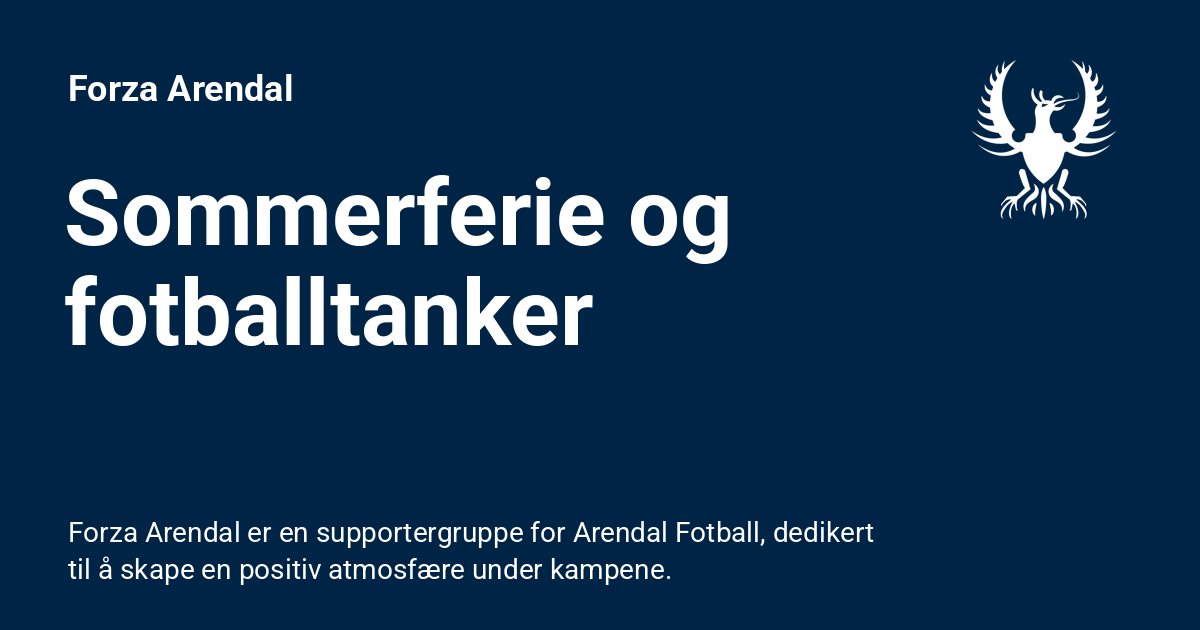
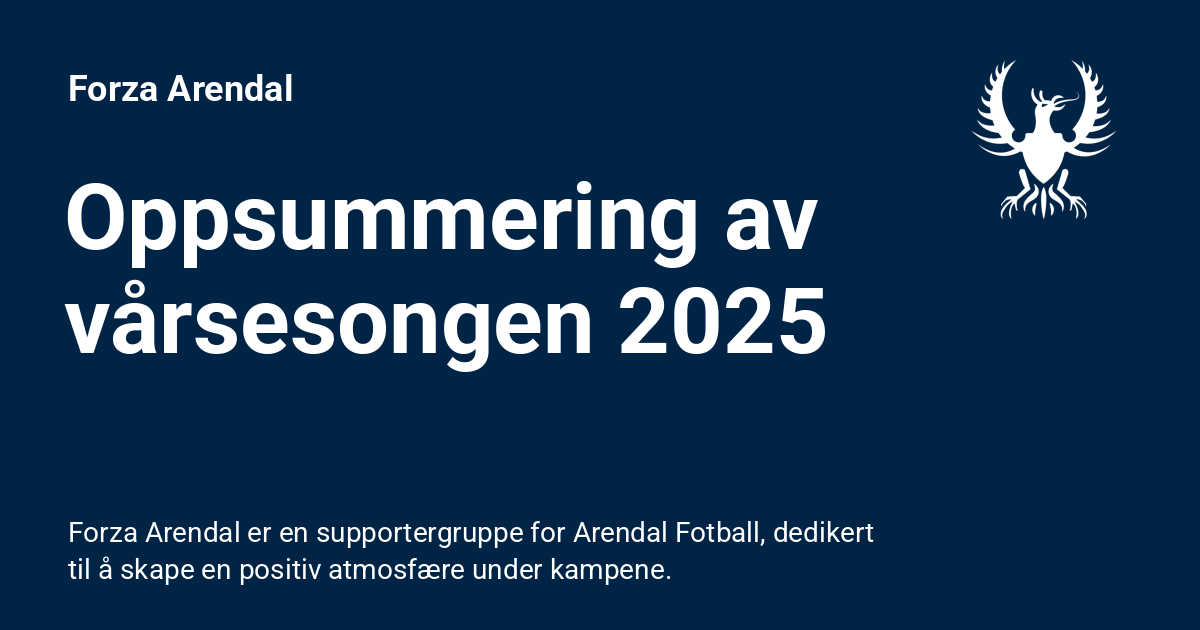
Deployed 1e60135 with MkDocs version: 1.6.1

Changed region(s): [[0.0308, 0.2714, 0.7092, 0.6032]]

diff --git a/blog/archive/2025/index.html b/blog/archive/2025/index.html
@@ -320,16 +320,16 @@
 </div>
 </header>
 <div class="md-post__content md-typeset">
-<h2 id="oppsummering-av-varsesongen-2025"><a class="toclink" href="../../2025/07/25/sommerferie-og-fotballtanker/">Oppsummering av vårsesongen 2025</a></h2>
+<h2 id="oppsummering-av-varsesongen-2025"><a class="toclink" href="../../2025/07/25/oppsummering-av-v%C3%A5rsesongen-2025/">Oppsummering av vårsesongen 2025</a></h2>
 <p>Det har vært over 30 grader i flere dager, det er umulig å få tak i makrell på butikken, jordbær har blitt selve symbolet på velstand, og det er flere østlendinger enn Arendalitter i byen. Endelig er det sommer.</p>
 <p>Vanligvis pleier sommerpausen å være forferdelig lang, men i år har våre "venner" i NFF gitt oss Eliteseriefotball i fellesferien, så da har i hvert fall vi norsk-fotballfanatikere noe å underholde oss med når huden har blitt urovekkende rød og det er på tide å trekke inn fra stranda.</p>
-<h3 id="fr-sommeren"><a class="toclink" href="../../2025/07/25/sommerferie-og-fotballtanker/#fr-sommeren">Før sommeren</a></h3>
+<h3 id="fr-sommeren"><a class="toclink" href="../../2025/07/25/oppsummering-av-v%C3%A5rsesongen-2025/#fr-sommeren">Før sommeren</a></h3>
 <p>For å begynne i en litt kronglete rekkefølge: Jeg var både utrolig klar for ferie og ganske negativ etter uka hvor vi tapte borte mot Pors og kapteinen vår signerte for Jerv i løpet av et par dager.</p>
 <p>Det var et par ganger i løpet av dagene før siste kamp før sommeren at jeg vurderte om jeg faktisk skulle gidde å dra på kamp for første gang på rundt 14 år. Etter å ha plantet hodet godt inn i aircondition og skylt nedpå et par lykkebrus, konkluderte jeg med at selvfølgelig skulle jeg på kamp.</p>
-<h3 id="sandviken-kampen-fra-helvete-til-himmel"><a class="toclink" href="../../2025/07/25/sommerferie-og-fotballtanker/#sandviken-kampen-fra-helvete-til-himmel">Sandviken-kampen - fra helvete til himmel</a></h3>
+<h3 id="sandviken-kampen-fra-helvete-til-himmel"><a class="toclink" href="../../2025/07/25/oppsummering-av-v%C3%A5rsesongen-2025/#sandviken-kampen-fra-helvete-til-himmel">Sandviken-kampen - fra helvete til himmel</a></h3>
 <p>Det er kort vei fra himmel til helvete, eller motsatt i dette tilfellet. Første omgang mot Sandviken viser hva som bor i laget. En revansjesugen gjeng tok umiddelbart tak og traff ekstremt godt med det høye presset.</p>
 <p>Allerede noen minutter inn i kampen satt man med følelsen av at det bare var et spørsmål om tid før Arendal skulle score, og det gjorde vi. <strong>4–0 til pause</strong> og <strong>6–1 som sluttresultat</strong> gjorde at man kunne ta sommerferie med en grei følelse etter det som, i mine øyne, har vært en OK-minus vårsesong.</p>
-<h3 id="sesonganalyse"><a class="toclink" href="../../2025/07/25/sommerferie-og-fotballtanker/#sesonganalyse">Sesonganalyse</a></h3>
+<h3 id="sesonganalyse"><a class="toclink" href="../../2025/07/25/oppsummering-av-v%C3%A5rsesongen-2025/#sesonganalyse">Sesonganalyse</a></h3>
 <p>Som jeg har vært inne på i flere innlegg, har Arendal vært altfor dårlige til å avgjøre og vinne kamper. Selv om man bare har <strong>to tap</strong>, har man på motsatt side kun vunnet <strong>fire kamper</strong>. Samtidig mener jeg at man legger seg for lavt etter å ha tatt ledelsen, og gir motstanderen altfor mye initiativ.</p>
 <p>Med det sagt, har Arendal vært veldig bra i banespillet fra 16 meter til 16 meter. De slipper sjeldent inn mer enn ett mål, men problemet er at de ofte bare scorer ett mål selv. Det er kun enkeltkamper som pynter voldsomt på statistikken, som mot:</p>
 <ul>
@@ -338,17 +338,17 @@
 <li>Vard</li>
 </ul>
 <p>Her står vi med <strong>16 mål totalt</strong> på disse tre kampene.</p>
-<h3 id="spillertroppen-og-ledelse"><a class="toclink" href="../../2025/07/25/sommerferie-og-fotballtanker/#spillertroppen-og-ledelse">Spillertroppen og ledelse</a></h3>
+<h3 id="spillertroppen-og-ledelse"><a class="toclink" href="../../2025/07/25/oppsummering-av-v%C3%A5rsesongen-2025/#spillertroppen-og-ledelse">Spillertroppen og ledelse</a></h3>
 <p>Spiller for spiller har Arendal et lag med fantastisk stort potensial. Jeg tror majoriteten av spillerne kunne løftet ethvert 2. divisjonslag og gått rett inn i flere OBOS-lag. Det er derfor veldig synd at vi spiller så mange kamper hvor spillerne ikke får ut potensialet sitt.</p>
 <p>Til syvende og sist er det spillerne selv som må være påskrudde til kamp, men i mine øyne må nok også Vegard Hansen ta på seg en del av ansvaret for at prestasjonene har vært under pari store deler av sesongen. Han er både lagleder og sportssjef, og når laget langt på vei er hengt av i opprykkskampen før vi er halvspilt, er det hans ansvar.</p>
 <p>Da Vegard holdt sin første appell til oss supportere, var han krystallklar på at det ville bli nedturer. Halvannet år etter ansettelsen gleder jeg meg enormt til oppturen!</p>
-<h3 id="supporterne-og-forza"><a class="toclink" href="../../2025/07/25/sommerferie-og-fotballtanker/#supporterne-og-forza">Supporterne og Forza</a></h3>
+<h3 id="supporterne-og-forza"><a class="toclink" href="../../2025/07/25/oppsummering-av-v%C3%A5rsesongen-2025/#supporterne-og-forza">Supporterne og Forza</a></h3>
 <p>På tribunen er det gledelig at vi stadig ser nye ansikter. Arendal Fotball kåret oss til <strong>banens beste i Porsgrunn</strong>, og det var utrolig hyggelig å se at det var en solid gjeng som møtte opp til Sandviken-kampen, selv om det kun var tre poeng til nedrykksplass.</p>
 <p>Jeg synes Forza har levert bra så langt i år, til tross for en del dønn kjedelige kamper. Det har blitt organisert buss til alle turene vi pekte oss ut før sesongen, og det har ikke vært nevneverdige problemer med å fylle dem opp.</p>
-<h4 id="varens-hydepunkter-og-lavpunkter"><a class="toclink" href="../../2025/07/25/sommerferie-og-fotballtanker/#varens-hydepunkter-og-lavpunkter">Vårens høydepunkter og lavpunkter</a></h4>
+<h4 id="varens-hydepunkter-og-lavpunkter"><a class="toclink" href="../../2025/07/25/oppsummering-av-v%C3%A5rsesongen-2025/#varens-hydepunkter-og-lavpunkter">Vårens høydepunkter og lavpunkter</a></h4>
 <p><strong>Høydepunkt:</strong> Naturligvis 16. mai-kampen mot Jerv, men Fløy borte var også utrolig gøy – kanskje mest fordi det var deilig å komme i gang med sesongen.</p>
 <p><strong>Lavpunkt:</strong> Man kan egentlig velge og vrake, men både tapet mot Pors og Lysekloster gjorde utrolig vondt.</p>
-<h3 id="fremtiden"><a class="toclink" href="../../2025/07/25/sommerferie-og-fotballtanker/#fremtiden">Fremtiden</a></h3>
+<h3 id="fremtiden"><a class="toclink" href="../../2025/07/25/oppsummering-av-v%C3%A5rsesongen-2025/#fremtiden">Fremtiden</a></h3>
 <p>Jeg er veldig spent på høstsesongen. Etter alle soletegn vil det bli drøssevis av ubetydelige kamper, hvor det eneste man trenger å fokusere på er neste sesong. Men jeg er notorisk optimist, og troen kan ingen ta fra meg.</p>
 <p><strong>Vi satser på topp 2!</strong></p>
 </div>

diff --git a/blog/index.html b/blog/index.html
@@ -321,16 +321,16 @@
 </div>
 </header>
 <div class="md-post__content md-typeset">
-<h2 id="oppsummering-av-varsesongen-2025"><a class="toclink" href="2025/07/25/sommerferie-og-fotballtanker/">Oppsummering av vårsesongen 2025</a></h2>
+<h2 id="oppsummering-av-varsesongen-2025"><a class="toclink" href="2025/07/25/oppsummering-av-v%C3%A5rsesongen-2025/">Oppsummering av vårsesongen 2025</a></h2>
 <p>Det har vært over 30 grader i flere dager, det er umulig å få tak i makrell på butikken, jordbær har blitt selve symbolet på velstand, og det er flere østlendinger enn Arendalitter i byen. Endelig er det sommer.</p>
 <p>Vanligvis pleier sommerpausen å være forferdelig lang, men i år har våre "venner" i NFF gitt oss Eliteseriefotball i fellesferien, så da har i hvert fall vi norsk-fotballfanatikere noe å underholde oss med når huden har blitt urovekkende rød og det er på tide å trekke inn fra stranda.</p>
-<h3 id="fr-sommeren"><a class="toclink" href="2025/07/25/sommerferie-og-fotballtanker/#fr-sommeren">Før sommeren</a></h3>
+<h3 id="fr-sommeren"><a class="toclink" href="2025/07/25/oppsummering-av-v%C3%A5rsesongen-2025/#fr-sommeren">Før sommeren</a></h3>
 <p>For å begynne i en litt kronglete rekkefølge: Jeg var både utrolig klar for ferie og ganske negativ etter uka hvor vi tapte borte mot Pors og kapteinen vår signerte for Jerv i løpet av et par dager.</p>
 <p>Det var et par ganger i løpet av dagene før siste kamp før sommeren at jeg vurderte om jeg faktisk skulle gidde å dra på kamp for første gang på rundt 14 år. Etter å ha plantet hodet godt inn i aircondition og skylt nedpå et par lykkebrus, konkluderte jeg med at selvfølgelig skulle jeg på kamp.</p>
-<h3 id="sandviken-kampen-fra-helvete-til-himmel"><a class="toclink" href="2025/07/25/sommerferie-og-fotballtanker/#sandviken-kampen-fra-helvete-til-himmel">Sandviken-kampen - fra helvete til himmel</a></h3>
+<h3 id="sandviken-kampen-fra-helvete-til-himmel"><a class="toclink" href="2025/07/25/oppsummering-av-v%C3%A5rsesongen-2025/#sandviken-kampen-fra-helvete-til-himmel">Sandviken-kampen - fra helvete til himmel</a></h3>
 <p>Det er kort vei fra himmel til helvete, eller motsatt i dette tilfellet. Første omgang mot Sandviken viser hva som bor i laget. En revansjesugen gjeng tok umiddelbart tak og traff ekstremt godt med det høye presset.</p>
 <p>Allerede noen minutter inn i kampen satt man med følelsen av at det bare var et spørsmål om tid før Arendal skulle score, og det gjorde vi. <strong>4–0 til pause</strong> og <strong>6–1 som sluttresultat</strong> gjorde at man kunne ta sommerferie med en grei følelse etter det som, i mine øyne, har vært en OK-minus vårsesong.</p>
-<h3 id="sesonganalyse"><a class="toclink" href="2025/07/25/sommerferie-og-fotballtanker/#sesonganalyse">Sesonganalyse</a></h3>
+<h3 id="sesonganalyse"><a class="toclink" href="2025/07/25/oppsummering-av-v%C3%A5rsesongen-2025/#sesonganalyse">Sesonganalyse</a></h3>
 <p>Som jeg har vært inne på i flere innlegg, har Arendal vært altfor dårlige til å avgjøre og vinne kamper. Selv om man bare har <strong>to tap</strong>, har man på motsatt side kun vunnet <strong>fire kamper</strong>. Samtidig mener jeg at man legger seg for lavt etter å ha tatt ledelsen, og gir motstanderen altfor mye initiativ.</p>
 <p>Med det sagt, har Arendal vært veldig bra i banespillet fra 16 meter til 16 meter. De slipper sjeldent inn mer enn ett mål, men problemet er at de ofte bare scorer ett mål selv. Det er kun enkeltkamper som pynter voldsomt på statistikken, som mot:</p>
 <ul>
@@ -339,17 +339,17 @@
 <li>Vard</li>
 </ul>
 <p>Her står vi med <strong>16 mål totalt</strong> på disse tre kampene.</p>
-<h3 id="spillertroppen-og-ledelse"><a class="toclink" href="2025/07/25/sommerferie-og-fotballtanker/#spillertroppen-og-ledelse">Spillertroppen og ledelse</a></h3>
+<h3 id="spillertroppen-og-ledelse"><a class="toclink" href="2025/07/25/oppsummering-av-v%C3%A5rsesongen-2025/#spillertroppen-og-ledelse">Spillertroppen og ledelse</a></h3>
 <p>Spiller for spiller har Arendal et lag med fantastisk stort potensial. Jeg tror majoriteten av spillerne kunne løftet ethvert 2. divisjonslag og gått rett inn i flere OBOS-lag. Det er derfor veldig synd at vi spiller så mange kamper hvor spillerne ikke får ut potensialet sitt.</p>
 <p>Til syvende og sist er det spillerne selv som må være påskrudde til kamp, men i mine øyne må nok også Vegard Hansen ta på seg en del av ansvaret for at prestasjonene har vært under pari store deler av sesongen. Han er både lagleder og sportssjef, og når laget langt på vei er hengt av i opprykkskampen før vi er halvspilt, er det hans ansvar.</p>
 <p>Da Vegard holdt sin første appell til oss supportere, var han krystallklar på at det ville bli nedturer. Halvannet år etter ansettelsen gleder jeg meg enormt til oppturen!</p>
-<h3 id="supporterne-og-forza"><a class="toclink" href="2025/07/25/sommerferie-og-fotballtanker/#supporterne-og-forza">Supporterne og Forza</a></h3>
+<h3 id="supporterne-og-forza"><a class="toclink" href="2025/07/25/oppsummering-av-v%C3%A5rsesongen-2025/#supporterne-og-forza">Supporterne og Forza</a></h3>
 <p>På tribunen er det gledelig at vi stadig ser nye ansikter. Arendal Fotball kåret oss til <strong>banens beste i Porsgrunn</strong>, og det var utrolig hyggelig å se at det var en solid gjeng som møtte opp til Sandviken-kampen, selv om det kun var tre poeng til nedrykksplass.</p>
 <p>Jeg synes Forza har levert bra så langt i år, til tross for en del dønn kjedelige kamper. Det har blitt organisert buss til alle turene vi pekte oss ut før sesongen, og det har ikke vært nevneverdige problemer med å fylle dem opp.</p>
-<h4 id="varens-hydepunkter-og-lavpunkter"><a class="toclink" href="2025/07/25/sommerferie-og-fotballtanker/#varens-hydepunkter-og-lavpunkter">Vårens høydepunkter og lavpunkter</a></h4>
+<h4 id="varens-hydepunkter-og-lavpunkter"><a class="toclink" href="2025/07/25/oppsummering-av-v%C3%A5rsesongen-2025/#varens-hydepunkter-og-lavpunkter">Vårens høydepunkter og lavpunkter</a></h4>
 <p><strong>Høydepunkt:</strong> Naturligvis 16. mai-kampen mot Jerv, men Fløy borte var også utrolig gøy – kanskje mest fordi det var deilig å komme i gang med sesongen.</p>
 <p><strong>Lavpunkt:</strong> Man kan egentlig velge og vrake, men både tapet mot Pors og Lysekloster gjorde utrolig vondt.</p>
-<h3 id="fremtiden"><a class="toclink" href="2025/07/25/sommerferie-og-fotballtanker/#fremtiden">Fremtiden</a></h3>
+<h3 id="fremtiden"><a class="toclink" href="2025/07/25/oppsummering-av-v%C3%A5rsesongen-2025/#fremtiden">Fremtiden</a></h3>
 <p>Jeg er veldig spent på høstsesongen. Etter alle soletegn vil det bli drøssevis av ubetydelige kamper, hvor det eneste man trenger å fokusere på er neste sesong. Men jeg er notorisk optimist, og troen kan ingen ta fra meg.</p>
 <p><strong>Vi satser på topp 2!</strong></p>
 </div>

diff --git a/blog/2025/07/25/oppsummering-av-vårsesongen-2025/index.html b/blog/2025/07/25/oppsummering-av-vårsesongen-2025/index.html
@@ -10,7 +10,7 @@
       
       
       
-        <link rel="canonical" href="https://forza-arendal.no/blog/2025/07/25/sommerferie-og-fotballtanker/">
+        <link rel="canonical" href="https://forza-arendal.no/blog/2025/07/25/oppsummering-av-v%C3%A5rsesongen-2025/">
       
       
         <link rel="prev" href="../../05/oppsummering-runde-13-pors-b/">
@@ -22,7 +22,7 @@
     
     
       
-        <title>Sommerferie og fotballtanker - Forza Arendal</title>
+        <title>Oppsummering av vårsesongen 2025 - Forza Arendal</title>
       
     
     
@@ -69,7 +69,7 @@
       
         <meta  property="og:type"  content="website" >
       
-        <meta  property="og:title"  content="Sommerferie og fotballtanker - Forza Arendal" >
+        <meta  property="og:title"  content="Oppsummering av vårsesongen 2025 - Forza Arendal" >
       
         <meta  property="og:description"  content="Forza Arendal er en supportergruppe for Arendal Fotball, dedikert til å skape en positiv atmosfære under kampene." >
       
@@ -81,11 +81,11 @@
       
         <meta  property="og:image:height"  content="630" >
       
-        <meta  property="og:url"  content="https://forza-arendal.no/blog/2025/07/25/sommerferie-og-fotballtanker/" >
+        <meta  property="og:url"  content="https://forza-arendal.no/blog/2025/07/25/oppsummering-av-v%C3%A5rsesongen-2025/" >
       
         <meta  name="twitter:card"  content="summary_large_image" >
       
-        <meta  name="twitter:title"  content="Sommerferie og fotballtanker - Forza Arendal" >
+        <meta  name="twitter:title"  content="Oppsummering av vårsesongen 2025 - Forza Arendal" >
       
         <meta  name="twitter:description"  content="Forza Arendal er en supportergruppe for Arendal Fotball, dedikert til å skape en positiv atmosfære under kampene." >
       
@@ -145,7 +145,7 @@
         <div class="md-header__topic" data-md-component="header-topic">
           <span class="md-ellipsis">
             
-              Sommerferie og fotballtanker
+              Oppsummering av vårsesongen 2025
             
           </span>
         </div>

diff --git a/tabell/index.html b/tabell/index.html
@@ -742,7 +742,7 @@
 <summary>Informasjon</summary>
 <p>Denne tabellen er hentet fra <a href="https://www.arendalfotball.no/tabell">PostNord-ligaen avdeling 2</a> og oppdateres jevnlig. Tabellen viser lagene i ligaen, antall kamper spilt, seire, uavgjorte, tap, mål for, mål mot og poeng.</p>
 </details>
-<p>Tabellene er sist oppdatert: 2025-07-24 22:06:06</p>
+<p>Tabellene er sist oppdatert: 2025-07-25 22:06:35</p>
 <h2 id="a-lag-herrer">A-lag Herrer<a class="headerlink" href="#a-lag-herrer" title="Anchor link to this section for reference">¶</a></h2>
 <table>
 <thead>

diff --git a/blog/2025/07/05/oppsummering-runde-13-pors-b/index.html b/blog/2025/07/05/oppsummering-runde-13-pors-b/index.html
@@ -16,7 +16,7 @@
         <link rel="prev" href="../../02/f%C3%B8r-runde-12-pors-b/">
       
       
-        <link rel="next" href="../../25/sommerferie-og-fotballtanker/">
+        <link rel="next" href="../../25/oppsummering-av-v%C3%A5rsesongen-2025/">
       
       
       <link rel="icon" href="../../../../../assets/images/logo/favicon.ico">
